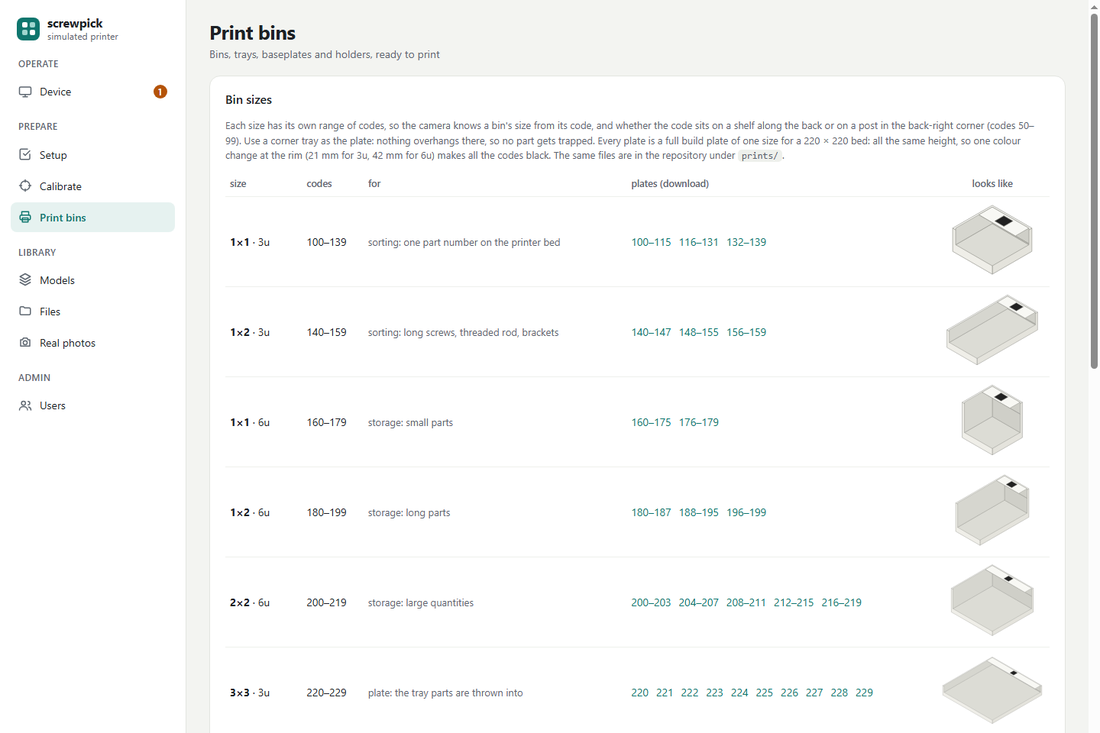
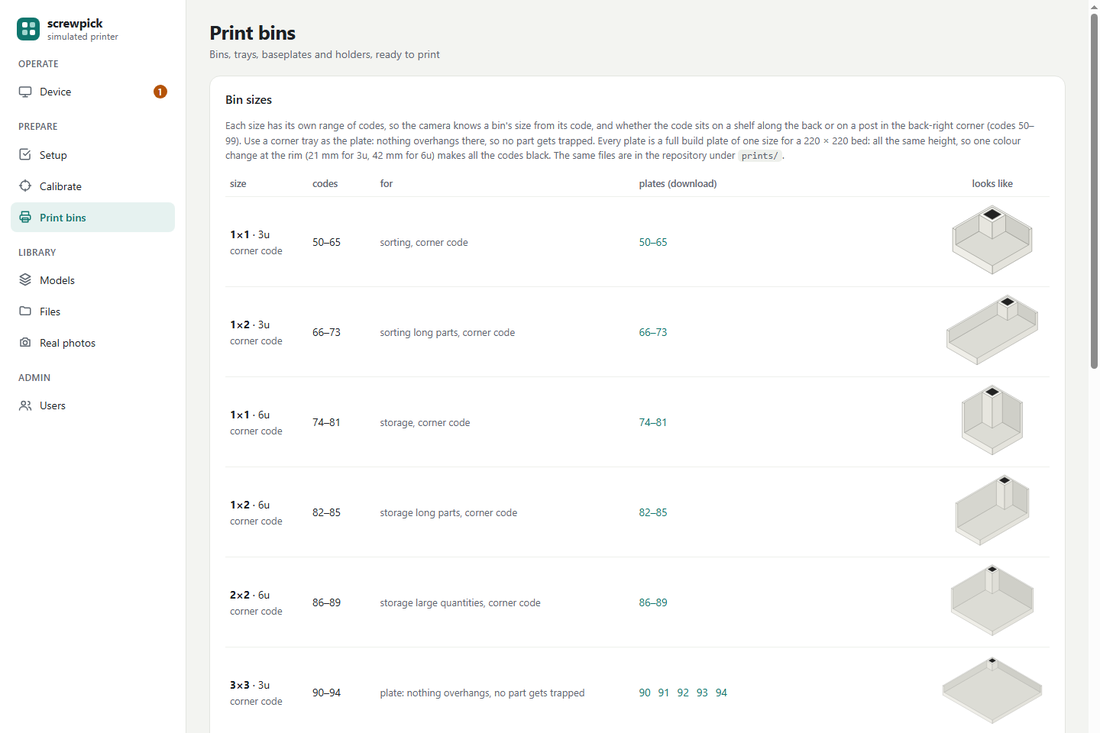
Print bins: corner bins first, post drawn where the cut-away view shows it
- The "looks like" drawings put the corner post in the far corner (it is printed back-right,
  where the cut-away isometric view hid it); the table's footnote says so.
- The corner sizes (50-99) are listed first, then the shelf sizes.
- README: new Print bins screenshot with the corner bins, a caption, and "a corner tray".

diff --git a/src/screwpick/web/index.html b/src/screwpick/web/index.html
@@ -581,8 +581,8 @@ function openSettings(){const L=draft;modal("Layout settings",`<div class="field
  $("s_wild").value=L.wild_by||"part";}
 // print tab
 function renderPrint(){if(!lay)return;$("printlist").innerHTML="<tr><th>bin</th><th>size</th><th>holds</th><th>files</th></tr>"+lay.bins.map(b=>`<tr><td>${b.marker}</td><td>${b.w}×${b.d} · ${b.height_u}u</td><td>${esc(b.label||b.holds.join(", ")||b.role)}</td><td><a href="api/print/bin?marker=${b.marker}&fmt=3mf">3MF</a> · <a href="api/print/bin?marker=${b.marker}&fmt=stl">STL</a></td></tr>`).join("");}
-function renderSizes(){$("sizelist").innerHTML="<tr><th>size</th><th>codes</th><th>for</th><th>plates (download)</th><th class=\"thumb\">looks like</th></tr>"+SIZES.map(s=>{const plates=[];for(let f=s.first;f<=s.last;f+=s.per_plate)plates.push(`<a href="api/print/plate?size=${s.name}&first=${f}">${f===Math.min(f+s.per_plate-1,s.last)?f:`${f}–${Math.min(f+s.per_plate-1,s.last)}`}</a>`);
- return `<tr><td><b>${s.w}×${s.d}</b> · ${s.height_u}u${s.style==="corner"?"<br><span class=\"note\">corner code</span>":""}</td><td>${s.first}–${s.last}</td><td class="note">${esc(s.use)}</td><td><div class="plates">${plates.join("")}</div></td><td class="thumb">${binIso(s.w,s.d,s.height_u,s.style)}</td></tr>`;}).join("")+'<tr><td class="note" colspan="5">240–249: any other size, set by hand on the bed (shelf code). 50–99: the code on a post in the back-right corner instead of a shelf: nothing overhangs, so no part gets trapped (best for the tray).</td></tr>';}
+function renderSizes(){$("sizelist").innerHTML="<tr><th>size</th><th>codes</th><th>for</th><th>plates (download)</th><th class=\"thumb\">looks like</th></tr>"+[...SIZES].sort((a,b)=>(a.style==="corner"?0:1)-(b.style==="corner"?0:1)).map(s=>{const plates=[];for(let f=s.first;f<=s.last;f+=s.per_plate)plates.push(`<a href="api/print/plate?size=${s.name}&first=${f}">${f===Math.min(f+s.per_plate-1,s.last)?f:`${f}–${Math.min(f+s.per_plate-1,s.last)}`}</a>`);
+ return `<tr><td><b>${s.w}×${s.d}</b> · ${s.height_u}u${s.style==="corner"?"<br><span class=\"note\">corner code</span>":""}</td><td>${s.first}–${s.last}</td><td class="note">${esc(s.use)}</td><td><div class="plates">${plates.join("")}</div></td><td class="thumb">${binIso(s.w,s.d,s.height_u,s.style)}</td></tr>`;}).join("")+'<tr><td class="note" colspan="5">50–99: the code on a post in the back-right corner (drawn in the far corner here, to show it): nothing overhangs, so no part gets trapped (best for the tray). 100–239: the code on a shelf along the back. 240–249: any other size, set by hand on the bed (shelf code).</td></tr>';}
 function binIso(w,d,hu,style){const P=42,W=w*P-0.5,D=d*P-0.5,Hh=hu*7,t=1.6,f=6,c=0.866;
  const pr=(u,v,z)=>[(u-v)*c,(u+v)*0.5-z],poly=(pts,fill,extra="")=>`<polygon points="${pts.map(p=>pr(...p).map(n=>n.toFixed(1)).join(",")).join(" ")}" fill="${fill}" stroke="#9a9a94" stroke-width=".5" stroke-linejoin="round" ${extra}/>`;
  let s="";const R=(u0,v0,u1,v1,z)=>[[u0,v0,z],[u1,v0,z],[u1,v1,z],[u0,v1,z]];
@@ -590,7 +590,8 @@ function binIso(w,d,hu,style){const P=42,W=w*P-0.5,D=d*P-0.5,Hh=hu*7,t=1.6,f=6,c
  s+=poly(R(0,0,W,D,Hh),"#f8f8f4");s+=poly(R(t,t,W-t,D-t,f),"#dcdcd5");
  s+=poly([[t,t,f],[W-t,t,f],[W-t,t,Hh],[t,t,Hh]],"#cfcfc8")+poly([[t,t,f],[t,D-t,f],[t,D-t,Hh],[t,t,Hh]],"#d6d6cf");
  const mk=(u,v)=>{const m=9.6;return poly(R(u-m/2,v-m/2,u+m/2,v+m/2,Hh+0.4),"#222");};
- if(style==="corner"){const p=14,u0=W-t-p,v1=t+p;s+=poly([[u0,v1,f],[W-t,v1,f],[W-t,v1,Hh],[u0,v1,Hh]],"#e7e6df")+poly([[u0,t,f],[u0,v1,f],[u0,v1,Hh],[u0,t,Hh]],"#dfded7")+poly(R(u0,t,W-t,v1,Hh),"#f8f8f4")+mk(u0+p/2,t+p/2);}
+ if(style==="corner"){const p=14,u1=t+p,v1=t+p;// drawn in the far corner, where the cut-away view shows it whole (printed: back-right)
+  s+=poly([[t,v1,f],[u1,v1,f],[u1,v1,Hh],[t,v1,Hh]],"#e7e6df")+poly([[u1,t,f],[u1,v1,f],[u1,v1,Hh],[u1,t,Hh]],"#dfded7")+poly(R(t,t,u1,v1,Hh),"#f8f8f4")+mk(t+p/2,t+p/2);}
  else{const sd=14;s+=poly([[t,t+sd,Hh],[W-t,t+sd,Hh],[W-t,t,Math.max(f,Hh-sd)],[t,t,Math.max(f,Hh-sd)]],"#e2e1da")+poly(R(t,t,W-t,t+sd,Hh),"#f8f8f4")+mk(W/2,t+sd/2);}
  const pts=[[0,0,0],[W,0,0],[0,D,0],[W,D,0],[0,0,Hh],[W,0,Hh],[0,D,Hh],[W,D,Hh]].map(p=>pr(...p)),xs=pts.map(p=>p[0]),ys=pts.map(p=>p[1]),x0=Math.min(...xs)-2,y0=Math.min(...ys)-2;
  return `<svg viewBox="${x0} ${y0} ${Math.max(...xs)-x0+2} ${Math.max(...ys)-y0+2}">${s}</svg>`;}

diff --git a/README.md b/README.md
@@ -219,8 +219,12 @@ stale.
 ### 2. Bins on the bed
 
 ![The Print bins tab](docs/images/print-bins.png)
+*The Print bins tab starts with the corner bins (codes 50–99): the code sits on a square post
+that goes straight down to the floor, so no part can get trapped under it. The post is in the
+back-right corner; the pictures draw it in the far corner so you can see it. The shelf bins
+(codes 100–239) follow below.*
 
-Print the baseplate, a tray and some bins (the *Print bins* tab, or the ready-made files in
+Print the baseplate, a corner tray (codes 90–94) and some bins (the *Print bins* tab, or the ready-made files in
 `prints/`). Bins come as two-colour files: white bin, black code. With a single-colour printer, add
 a colour change at the rim height.
 
